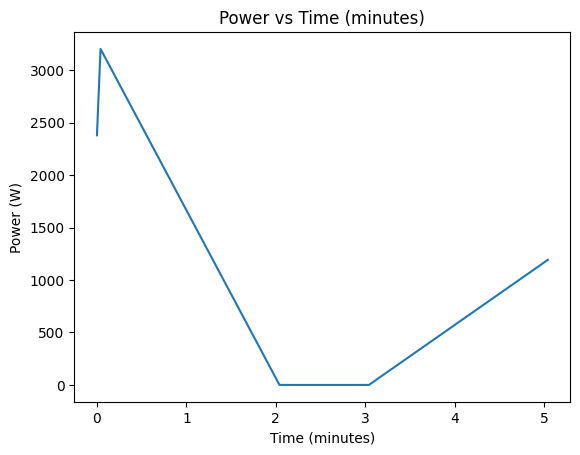
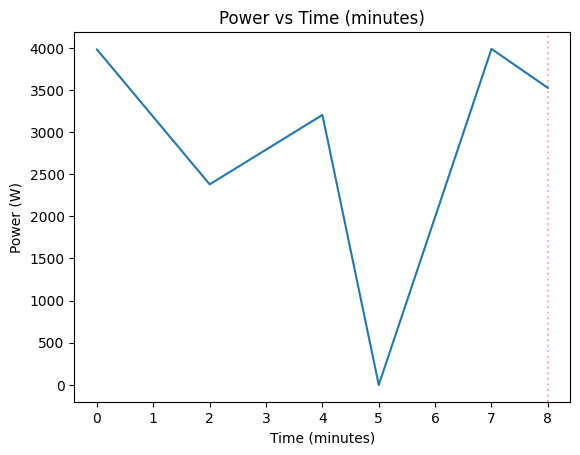
Complete time block simulation

diff --git a/PySpice/simulation_over_time.py b/PySpice/simulation_over_time.py
@@ -20,16 +20,27 @@ def start_voyage(circuit_config_loc: str, voyage_config_loc: str, save_path: str
 
     battery_choice = circuit_data['battery_setup']['choice']
     battery_setup_info = circuit_data['battery_setup'][battery_choice]
-    battery_capacity = battery_setup_info['capacity_ah'] * battery_setup_info['battery_in_parallel']
+    battery_capacity_Amin = battery_setup_info['capacity_ah'] * battery_setup_info['battery_in_parallel'] * 60
     battery_min_voltage = battery_setup_info['min_voltage']
     battery_max_voltage = battery_setup_info['max_voltage']
     
-    current_capacity_Amin = (current_soc / 100) * battery_capacity * 60
+    current_capacity_Amin = current_soc * battery_capacity_Amin
     time_range_min = [0]
     results = []
     battery_capacity_list = [current_capacity_Amin]
     
+    #initial run at t=0
+    circuit, component_object, errors = build_circuit_from_json(circuit_config_loc=circuit_config_loc, modifications={})
+    analysis, result = begin_simulation(circuit, component_object, errors, ngspice_available)
+    results.append(result)
+    
     for segment_idx in range(len(segments)):
+        
+        print(time_range_min)
+        print(battery_capacity_list)
+        for each in segments:
+            print(json.dumps(each, indent=4))
+        print("\n\n\n")
         segment = segments[segment_idx]
         
         duration_minutes = segment['duration_minutes']
@@ -51,6 +62,9 @@ def start_voyage(circuit_config_loc: str, voyage_config_loc: str, save_path: str
         #if result[battery discharge] * voyage time > current capacity, 
         # calculate how huch time to reach 0, remainding time of the segment modify to 0 discharge
         discharge_current_Ah = -result["summary"]["data"][0]["current"]["total_battery_input_current"]
+        
+        print(current_capacity_Amin, discharge_current_Ah, duration_minutes)
+        print()
         # use summary res
         
         if current_capacity_Amin - (discharge_current_Ah * 60 * duration_minutes) <= 0: 
@@ -65,22 +79,21 @@ def start_voyage(circuit_config_loc: str, voyage_config_loc: str, save_path: str
             segment_idx -= 1
         else:
             current_capacity_Amin -= discharge_current_Ah * 60 * duration_minutes
-            current_soc = (current_capacity_Amin / (battery_capacity * 60)) / 100
+            current_soc = (current_capacity_Amin / battery_capacity_Amin)
+            print('current soc:', current_soc)
             
             results.append(result)
             time_range_min.append(time_range_min[-1] + duration_minutes)
-
-        battery_capacity_list.append(min(battery_capacity, current_capacity_Amin))
+            
+        print(current_capacity_Amin)
+        battery_capacity_list.append(min(battery_capacity_Amin, current_capacity_Amin))
+        print(battery_capacity_list)
     
-    print(len(results))     #missing one. Add a blank result at start?
-    print(len(time_range_min))
-    print(len(battery_capacity_list))
-    generate_graph(results=results, x_axis=time_range_min[:-1], x_label="Time (minutes)",
+    generate_graph(results=results, x_axis=time_range_min, x_label="Time (minutes)",
                    voltage_display_choice=['battery_result', 'load_result'],
                    current_display_choice=['battery_result', 'load_result'],
                    power_display_choice=['panel_result', 'load_result'],
-                   battery_capacity=battery_capacity_list[:-1],
-                   display_graph=False,
+                   battery_capacity=battery_capacity_list,
                    save_path=save_path)
 
     

diff --git a/PySpice/sweep_graph_generation.py b/PySpice/sweep_graph_generation.py
@@ -4,6 +4,8 @@ import numpy as np
 import os
 from typing import List, Dict
 
+from configurations.simulation_config import SHOW_SWEEP_PLOT
+
 
 MARKER_SIZE = 0
 MARKER_STYLE = 'o'  #'o', 's', '^', 'D', '*', 'P', 'X', etc.
@@ -17,8 +19,9 @@ def generate_graph(results: list, x_axis: list, x_label: str = "",
                    current_display_choice: list = [], 
                    power_display_choice: list = [],
                    battery_capacity: list = [],
-                   display_graph: bool = False,
                    save_path: str = None):
+    
+    display_graph = SHOW_SWEEP_PLOT
     
     num_plots = sum([len(voltage_display_choice) > 0, 
                      len(current_display_choice) > 0, 
@@ -29,16 +32,17 @@ def generate_graph(results: list, x_axis: list, x_label: str = "",
         print("No display choices selected")
         return
     
-    _, axes = plt.subplots(num_plots, 1, figsize=(10, 6 * num_plots))
+    _, axes = plt.subplots(num_plots, 1, figsize=(10, 5 * num_plots))
     if num_plots == 1:
         axes = [axes]
     
     # Adjust spacing between subplots
-    plt.subplots_adjust(hspace=15, bottom=0.1)
+    plt.subplots_adjust(hspace=20, bottom=0.1)
     
 
     warning_points = []
     equilibrium_points = []
+    
     for i, result in enumerate(results):
         if 'warning' in result and result['warning']['array_count'] > 0:
             warning_points.append({
@@ -47,7 +51,7 @@ def generate_graph(results: list, x_axis: list, x_label: str = "",
             })
         for array in result['battery_result']['data']:
             current_list = list(array['current'].values())
-            if abs(sum(current_list) / len(current_list) - 0) < 0.9:
+            if abs(sum(current_list) / len(current_list) - 0) < 1:
                 equilibrium_points.append(x_axis[i])
     
     # Color cycles for different traces
@@ -177,6 +181,7 @@ def generate_graph(results: list, x_axis: list, x_label: str = "",
         save_file = os.path.join(save_path, IMG_FILE_NAME)
         plt.savefig(save_file, dpi=300, bbox_inches='tight')
         print(f"Graph saved to {save_file}")
+    
     if display_graph:
         plt.show()     
 

diff --git a/PySpice/simulation_sweeper.py b/PySpice/simulation_sweeper.py
@@ -22,7 +22,6 @@ def sweep_throttle(circuit_config_loc, save_path, ngspice_available):
             voltage_display_choice=['mppt_result', 'load_result'],
             current_display_choice=['mppt_result', 'solar_result', 'load_result', 'battery_result'],
             power_display_choice=['load_result', 'battery_result'],
-            display_graph=SHOW_SWEEP_PLOT,
             save_path=save_path if SAVE_OUTPUT else None)
     
 def sweep_panel_power(circuit_config_loc, save_path, ngspice_available):
@@ -48,5 +47,4 @@ def sweep_panel_power(circuit_config_loc, save_path, ngspice_available):
             voltage_display_choice=['mppt_result', 'load_result'],
             current_display_choice=['mppt_result', 'solar_result', 'load_result', 'battery_result'],
             power_display_choice=['load_result', 'battery_result', 'solar_result'],
-            display_graph=SHOW_SWEEP_PLOT,
             save_path=save_path if SAVE_OUTPUT else None)

diff --git a/PySpice/configurations/constants.py b/PySpice/configurations/constants.py
@@ -2,7 +2,7 @@ GROUNDING_RESISTANCE    = 1e-6
 WIRE_RESISTANCE         = 0.01
 BARF                    = "=" * 50 + "\n"
 BARE                    = "\n" + "=" * 50
-EPSILON = 1e-12
+EPSILON = 1e-10
 
 MPPT_BATTERY_VOLTAGE_BUFFER     = 2.0
 VOLTAGE_MISMATCH_TOLERANCE      = 5.0
